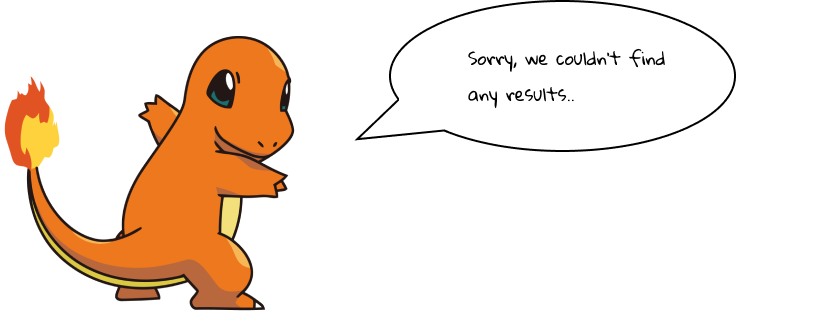
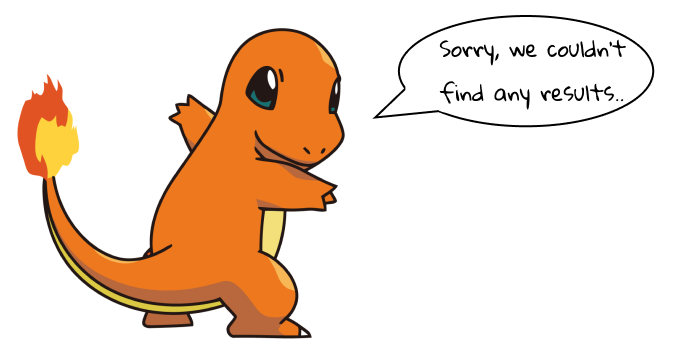
error images added both for big screens and small screens

diff --git a/src/components/PokemonDetailsPage.jsx b/src/components/PokemonDetailsPage.jsx
@@ -12,7 +12,7 @@ import Button from "./common/Button";
 import LoadingIndicator from "./LoadingIndicator";
 import PokemonProfileItem from "./PokemonProfileItem";
 import { toast } from "react-toastify";
-import { errorStyles } from "../helpers/toastStyles";
+import { errorStyles, successStyles } from "../helpers/toastStyles";
 
 const PokemonDetailsPage = ({
   match,
@@ -39,9 +39,9 @@ const PokemonDetailsPage = ({
     const maleRate = 100 - femaleRate;
     return [femaleRate, maleRate];
   };
-  if (notFoundError) {
-    return <div>We were unable to find details about this pokemon</div>;
-  }
+  // if (notFoundError) {
+  //   return <div>We were unable to find details about this pokemon</div>;
+  // }
   if (pokemon) {
     return (
       <Fragment>
@@ -57,11 +57,25 @@ const PokemonDetailsPage = ({
                   </div>
                   <div className="col">
                     <div className="float-right">
-                      <Button
-                        text="Add To My PokeDex"
-                        handleClick={() => savePokemon(pokemon.name, pokemon.id)}
-                        classes="btn"
-                      />
+                      {myPokeDex.find(p => parseInt(p.id, 10) === parseInt(pokemon.id, 10)) ===
+                      undefined ? (
+                        <Button
+                          text="Add To My PokeDex"
+                          handleClick={() =>
+                            savePokemon(pokemon.name, pokemon.id)
+                              .then(
+                                toast.success(`${pokemon.name} saved to My PokeDex`, successStyles)
+                              )
+                              .catch(
+                                toast.error(
+                                  `Unable To save ${pokemon.name} to My PokeDex`,
+                                  errorStyles
+                                )
+                              )
+                          }
+                          classes="btn"
+                        />
+                      ) : null}
                     </div>
                   </div>
                 </div>

diff --git a/src/index.css b/src/index.css
@@ -168,11 +168,14 @@ body {
 
 .no-search-results {
   background-image: url(/assets/noSearchResults.png);
-  height: 100%;
-  background-repeat: no-repeat;
-  background-position: center;
-  background-size: contain;
-  width: 100%;
+}
+
+.empty-pokedex {
+  background-image: url(/assets/emptyPokeDex.png);
+}
+
+.page-not-found {
+  background-image: url(/assets/pageNotFound.png);
 }
 
 .message-image {
@@ -210,6 +213,14 @@ body {
   font-size: 30px;
 }
 
+.background-image {
+  height: 100%;
+  background-repeat: no-repeat;
+  background-position: center;
+  background-size: contain;
+  width: 100%;
+}
+
 @media only screen and (max-width: 1000px) {
   .nav-item-text {
     display: none;
@@ -234,5 +245,17 @@ body {
   }
   .pokedex-icon {
     float: right !important;
+  }
+
+  .no-search-results {
+    background-image: url(/assets/noSearchResultsSmallScreen.png);
+  }
+
+  .empty-pokedex {
+    background-image: url(/assets/emptyPokeDexSmallScreen.png);
+  }
+
+  .page-not-found {
+    background-image: url(/assets/pageNotFoundSmallScreen.png);
   }
 }

diff --git a/src/components/HomePage.jsx b/src/components/HomePage.jsx
@@ -37,7 +37,7 @@ const HomePage = ({ getAllPokemon, getMyPokeDex, pokemon }) => {
 
   const isSearchMatch = p => p.name.toLowerCase().startsWith(searchTerm) || p.id === searchTerm;
 
-  const noSearchResultsMessage = <div className="no-search-results" />;
+  const noSearchResultsMessage = <div className="col no-search-results background-image " />;
 
   const renderPokemonList = () => {
     if (searchTerm.trim().length > 0) {
@@ -58,7 +58,7 @@ const HomePage = ({ getAllPokemon, getMyPokeDex, pokemon }) => {
         <div className="row justify-content-center">
           <SearchBar searchTerm={searchTerm} handleChange={handleInputChange} />
         </div>
-        <div className="row row justify-content-center">{renderPokemonList()}</div>
+        <div className="row justify-content-center">{renderPokemonList()}</div>
         <div className="row justify-content-center">{showLoadMorePokemonButton()}</div>
       </Fragment>
     );

diff --git a/src/components/MyPokeDexPage.jsx b/src/components/MyPokeDexPage.jsx
@@ -3,7 +3,7 @@ import { connect } from "react-redux";
 import { getMyPokeDex } from "../redux/actions/pokemonActions";
 import PokemonCardList from "./PokemonCardList";
 
-const emptyPokeDexImage = <img src="/assets/emptyPokeDexImage.png" alt="emptyPokedex" />;
+const emptyPokeDexImage = <div className="col empty-pokedex background-image" />;
 const MyPokeDexPage = ({ myPokeDex, getMyPokeDex }) => {
   useEffect(() => {
     const fetchPokemon = () => getMyPokeDex();
@@ -12,7 +12,6 @@ const MyPokeDexPage = ({ myPokeDex, getMyPokeDex }) => {
     }
   }, []);
 
-  console.log("pokeDex:", myPokeDex);
   if (myPokeDex) {
     return (
       <div className="row justify-content-center">

diff --git a/src/components/PageNotFound.jsx b/src/components/PageNotFound.jsx
@@ -1,17 +1,19 @@
-import React from "react";
+import React, { Fragment } from "react";
 import { Link } from "react-router-dom";
 
 const PageNotFound = () => (
-  <div>
+  <Fragment>
     <div className="row justify-content-center">
-      <img src="/assets/pageNotFoundImage.png" alt="not found message" />
+      <div className="message-image">
+        <div className="col page-not-found background-image" />
+      </div>
     </div>
     <div className="row justify-content-center">
       <Link className="btn" to="/">
         Back To Home
       </Link>
     </div>
-  </div>
+  </Fragment>
 );
 
 export default PageNotFound;

diff --git a/src/components/PokemonCard.jsx b/src/components/PokemonCard.jsx
@@ -12,7 +12,7 @@ const PokemonCard = ({ name, id, myPokeDex, savePokemon, deletePokemon }) => {
   const [loading, setLoading] = useState(true);
 
   return (
-    <div className="col-md-3 mb-5 text-center">
+    <div className="col-md-4 col-lg-3 mb-5 text-center">
       <Link className="link" to={`/pokemon/${id}`}>
         <div className="pokecard ">
           <h5 className="card-title mt-3">{formatString(name)}</h5>
